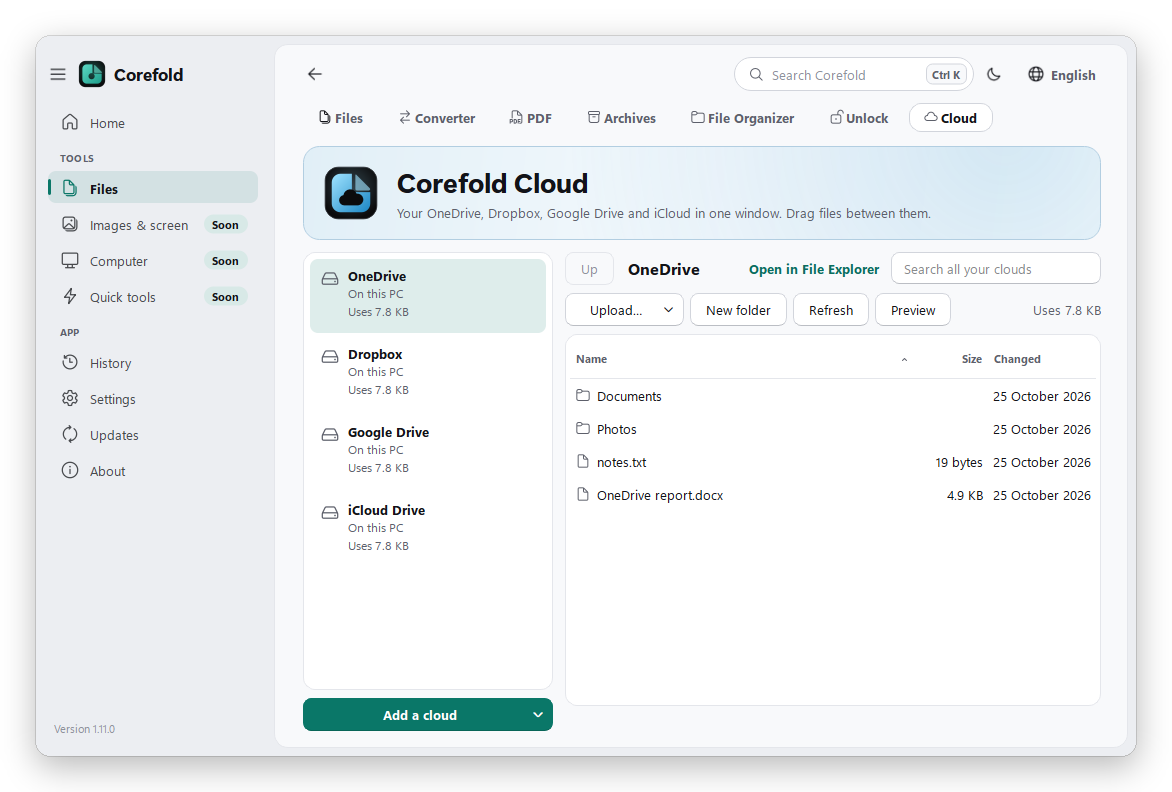
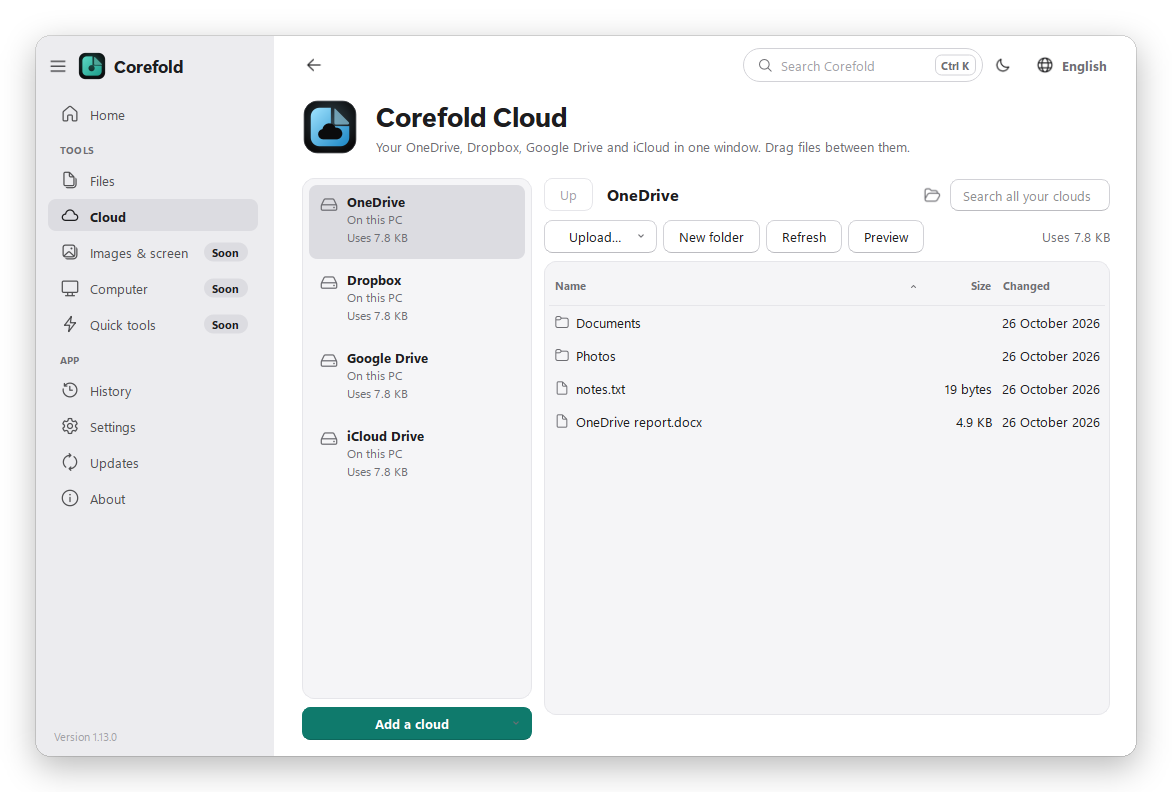
README and website in the quiet look: new pictures, Corefold Files as one tool (#63)
- All 20 README pictures retaken on Windows in the quiet look (version 1.13.0, mouse off the window, grey wheel backdrop).
- README: Corefold Files as one tool (Convert, PDF, Archive, Tidy up, Unlock), Cloud's own row with Google Drive sign-in, the calm look.
- Website: quiet colours, filled cards, ink feature icons.
- Old unused pictures of resting tools removed.

diff --git a/docs/index.html b/docs/index.html
@@ -8,13 +8,13 @@
 <link rel="icon" href="icon.png">
 <style>
   :root {
-    --surface: #f5f7f7; --raised: #ffffff; --sunken: #ebf0ef; --line: #d3dcdb; --ink: #11201e; --muted: #53625f;
-    --core: #0a7768; --core-strong: #08665b; --core-soft: #dcf1ed; --on-core: #ffffff;
+    --surface: #ffffff; --raised: #f5f5f7; --sunken: #ececef; --line: #e6e6ea; --ink: #1d1d1f; --muted: #6e6e73;
+    --core: #0f7a6c; --core-strong: #0c6a5e; --core-soft: #e6f2f0; --on-core: #ffffff;
     --display: "Segoe UI Variable Display", "Segoe UI", system-ui, -apple-system, sans-serif;
   }
   @media (prefers-color-scheme: dark) {
-    :root { --surface: #0d1413; --raised: #15201e; --sunken: #090f0e; --line: #2a3b38; --ink: #e6f0ee; --muted: #9bb0ac;
-            --core: #3cc7b2; --core-strong: #5fd6c4; --core-soft: #113a34; --on-core: #06201c; }
+    :root { --surface: #131315; --raised: #1e1e21; --sunken: #19191b; --line: #26262a; --ink: #f5f5f7; --muted: #a1a1a8;
+            --core: #3fb6a2; --core-strong: #5cc6b4; --core-soft: #1d3632; --on-core: #06110f; }
   }
   * { box-sizing: border-box; }
   body { margin: 0; background: var(--surface); color: var(--ink);
@@ -41,23 +41,23 @@
   section { padding: 44px 0; border-top: 1px solid var(--line); }
   h2 { font-size: 30px; margin: 0 0 22px; letter-spacing: -0.01em; font-weight: 600; }
   .grid { display: grid; grid-template-columns: repeat(auto-fit, minmax(230px, 1fr)); gap: 16px; }
-  .card { background: var(--raised); border: 1px solid var(--line); border-radius: 10px; padding: 20px; }
+  .card { background: var(--raised); border-radius: 10px; padding: 20px; }
   .card h3 { margin: 0 0 6px; font-size: 18px; font-weight: 600; }
   .card p { margin: 0; color: var(--muted); font-size: 15px; }
-  .card .ic { width: 28px; height: 28px; color: var(--core); display: block; margin-bottom: 10px; }
+  .card .ic { width: 28px; height: 28px; color: var(--ink); display: block; margin-bottom: 10px; }
   .steps { counter-reset: s; display: grid; gap: 14px; grid-template-columns: repeat(auto-fit, minmax(250px, 1fr)); }
   .steps .card::before { counter-increment: s; content: counter(s); display: inline-grid; place-items: center;
        width: 30px; height: 30px; border-radius: 50%; background: var(--core); color: var(--on-core); font-weight: 700;
        margin-bottom: 10px; }
   .safe { background: var(--core-soft); border-radius: 14px; padding: 28px; }
   .safe ul { margin: 0; padding-left: 20px; } .safe li { margin: 6px 0; }
-  .shot { background: var(--raised); border: 1px solid var(--line); border-radius: 10px; padding: 14px 16px;
+  .shot { background: var(--raised); border-radius: 10px; padding: 14px 16px;
           max-width: 460px; }
   .shot .title { font-weight: 700; color: #fff; background: #0067b8; margin: -14px -16px 12px; padding: 12px 16px;
                  border-radius: 10px 10px 0 0; }
   .shot u { color: #0067b8; }
   @media (prefers-color-scheme: dark) { .shot u { color: #6cb8ff; } }
-  details { background: var(--raised); border: 1px solid var(--line); border-radius: 10px; padding: 14px 18px; margin: 10px 0; }
+  details { background: var(--raised); border-radius: 10px; padding: 14px 18px; margin: 10px 0; }
   summary { cursor: pointer; font-weight: 600; }
   .doc { max-width: 46em; padding-bottom: 40px; }
   .doc h1 { font-size: clamp(32px, 5vw, 44px); }

diff --git a/docs/privacy.html b/docs/privacy.html
@@ -8,13 +8,13 @@
 <link rel="icon" href="icon.png">
 <style>
   :root {
-    --surface: #f5f7f7; --raised: #ffffff; --sunken: #ebf0ef; --line: #d3dcdb; --ink: #11201e; --muted: #53625f;
-    --core: #0a7768; --core-strong: #08665b; --core-soft: #dcf1ed; --on-core: #ffffff;
+    --surface: #ffffff; --raised: #f5f5f7; --sunken: #ececef; --line: #e6e6ea; --ink: #1d1d1f; --muted: #6e6e73;
+    --core: #0f7a6c; --core-strong: #0c6a5e; --core-soft: #e6f2f0; --on-core: #ffffff;
     --display: "Segoe UI Variable Display", "Segoe UI", system-ui, -apple-system, sans-serif;
   }
   @media (prefers-color-scheme: dark) {
-    :root { --surface: #0d1413; --raised: #15201e; --sunken: #090f0e; --line: #2a3b38; --ink: #e6f0ee; --muted: #9bb0ac;
-            --core: #3cc7b2; --core-strong: #5fd6c4; --core-soft: #113a34; --on-core: #06201c; }
+    :root { --surface: #131315; --raised: #1e1e21; --sunken: #19191b; --line: #26262a; --ink: #f5f5f7; --muted: #a1a1a8;
+            --core: #3fb6a2; --core-strong: #5cc6b4; --core-soft: #1d3632; --on-core: #06110f; }
   }
   * { box-sizing: border-box; }
   body { margin: 0; background: var(--surface); color: var(--ink);

diff --git a/scripts/readme_shots.py b/scripts/readme_shots.py
@@ -33,7 +33,7 @@ sys.path.insert(0, str(ROOT))
 import corefold  # noqa: E402
 
 if corefold.__version__ == "dev":  # (the sidebar shows it: "Version dev" looks unfinished in a picture)
-    corefold.__version__ = os.environ.get("COREFOLD_SHOW_VERSION", "1.11.0")
+    corefold.__version__ = os.environ.get("COREFOLD_SHOW_VERSION", "1.13.0")
 
 from PIL import Image, ImageDraw, ImageFilter  # noqa: E402
 
@@ -135,7 +135,7 @@ st.CONFIG_DIR.mkdir(parents=True, exist_ok=True)
     "utf-8")
 
 from PySide6.QtCore import QPointF, QRect, Qt  # noqa: E402
-from PySide6.QtGui import QColor, QIcon, QLinearGradient, QPainter, QPixmap, QRadialGradient  # noqa: E402
+from PySide6.QtGui import QColor, QCursor, QIcon, QLinearGradient, QPainter, QPixmap, QRadialGradient  # noqa: E402
 from PySide6.QtWidgets import QApplication  # noqa: E402
 
 from corefold import i18n  # noqa: E402
@@ -198,6 +198,7 @@ def framed(src: Path, dest: Path, radius: int = 14, margin: int = 36):
 
 
 def grab(widget, what: str, wait: float = 0.6):
+    QCursor.setPos(widget.screen().geometry().bottomRight())  # (the mouse would leave a card looking hovered)
     settle(wait)
     raw = RAW / f"{what}.png"
     widget.grab().save(str(raw))
@@ -208,18 +209,16 @@ def grab(widget, what: str, wait: float = 0.6):
 
 def paint_backdrop(p: QPainter, r: QRect):
     g = QLinearGradient(QPointF(r.topLeft()), QPointF(r.bottomRight()))
-    if DARK:
-        g.setColorAt(0, QColor("#0d1b1e"))
-        g.setColorAt(0.55, QColor("#12302f"))
-        g.setColorAt(1, QColor("#1b2140"))
+    if DARK:  # (the quiet look: soft greys, the accent only in the wheel itself)
+        g.setColorAt(0, QColor("#1e1e21"))
+        g.setColorAt(1, QColor("#131315"))
     else:
-        g.setColorAt(0, QColor("#dff3ef"))
-        g.setColorAt(0.55, QColor("#cfe6f3"))
-        g.setColorAt(1, QColor("#e6defa"))
+        g.setColorAt(0, QColor("#f5f5f7"))
+        g.setColorAt(1, QColor("#e4e4e9"))
     p.fillRect(r, g)
-    glow = QRadialGradient(QPointF(r.width() * 0.25, r.height() * 0.2), r.width() * 0.6)
-    glow.setColorAt(0, QColor(60, 199, 178, 70 if DARK else 90))
-    glow.setColorAt(1, QColor(60, 199, 178, 0))
+    glow = QRadialGradient(QPointF(r.width() * 0.5, r.height() * 0.5), r.width() * 0.5)
+    glow.setColorAt(0, QColor(63, 182, 162, 28 if DARK else 22))
+    glow.setColorAt(1, QColor(63, 182, 162, 0))
     p.fillRect(r, glow)
 
 

diff --git a/README.md b/README.md
@@ -11,10 +11,10 @@
 </p>
 
 <p align="center">
-  <a href="https://github.com/SayedLabs/corefold/releases/latest"><img src="https://img.shields.io/github/v/release/SayedLabs/corefold?label=download&color=0a7768" alt="Download the latest version"></a>
-  <a href="https://github.com/SayedLabs/corefold/releases"><img src="https://img.shields.io/github/downloads/SayedLabs/corefold/total?color=0a7768" alt="Downloads"></a>
-  <img src="https://img.shields.io/badge/Windows-10%20%7C%2011-0a7768" alt="Windows 10 and 11">
-  <img src="https://img.shields.io/badge/languages-5-0a7768" alt="5 languages">
+  <a href="https://github.com/SayedLabs/corefold/releases/latest"><img src="https://img.shields.io/github/v/release/SayedLabs/corefold?label=download&color=0f7a6c" alt="Download the latest version"></a>
+  <a href="https://github.com/SayedLabs/corefold/releases"><img src="https://img.shields.io/github/downloads/SayedLabs/corefold/total?color=0f7a6c" alt="Downloads"></a>
+  <img src="https://img.shields.io/badge/Windows-10%20%7C%2011-0f7a6c" alt="Windows 10 and 11">
+  <img src="https://img.shields.io/badge/languages-5-0f7a6c" alt="5 languages">
 </p>
 
 <p align="center">
@@ -25,18 +25,20 @@
 </p>
 
 ## What's inside
-This version puts everything into the **Files** tools, so each of them is as good as it can be.
+This version puts everything into **Corefold Files**: one tool with one heading and a bar of what you
+can use it for, so moving between its uses feels like one app, not several. Drop any file on its start
+page to see everything you can do with it.
 
 | | |
 |---|---|
-| **Converter** | Hold Shift while dragging a file, and a wheel of formats appears at your cursor. Drop it on one and it's converted: pictures, videos, music, PDFs and Office files. |
+| **Convert** | Hold Shift while dragging a file, and a wheel of formats appears at your cursor. Drop it on one and it's converted: pictures, videos, music, PDFs and Office files. |
 | **PDF** | Change what's in a PDF, merge, split and arrange PDFs by dragging page pictures, shrink them, turn pictures into a PDF, and lock them with a password. |
 | **Archive** | Opens ZIP, RAR, 7z, ISO and more with a double-click. Drag files out, change a file inside and save it back, rescue damaged archives. |
-| **File Organizer** | Sorts a messy Downloads or Desktop into clear folders with one click. See where every file will go first, and undo it all. |
+| **Tidy up** | Sorts a messy Downloads or Desktop into clear folders with one click. See where every file will go first, and undo it all. |
 | **Unlock** | Finds out which program is holding a file you can't delete or move, and asks it to let go. |
-| **Cloud** | Your OneDrive, Dropbox, Google Drive and iCloud in one window, found by themselves. Search them all and drag files and folders from one to another. |
+| **Cloud** | Has its own place in the sidebar: your OneDrive, Dropbox, Google Drive and iCloud in one window, found by themselves. Sign in to Google Drive right in Corefold, search every cloud at once and drag files from one to another. |
 
-Switch on only the tools you want: a tool that's switched off isn't loaded at all, so Corefold stays light.
+Switch off the uses you don't need (the ⚙ on the start page): a use that's switched off isn't loaded at all, so Corefold stays light.
 
 <table>
   <tr>
@@ -52,7 +54,7 @@ Switch on only the tools you want: a tool that's switched off isn't loaded at al
   <tr>
     <td width="50%"><picture>
   <source media="(prefers-color-scheme: dark)" srcset="docs/screenshots/organizer-en-dark.png">
-  <img src="docs/screenshots/organizer-en-light.png" alt="File Organizer: where every file in Downloads will go">
+  <img src="docs/screenshots/organizer-en-light.png" alt="Tidy up: where every file in Downloads will go">
 </picture></td>
     <td width="50%"><picture>
   <source media="(prefers-color-scheme: dark)" srcset="docs/screenshots/cloud-en-dark.png">
@@ -62,7 +64,7 @@ Switch on only the tools you want: a tool that's switched off isn't loaded at al
 </table>
 
 ### Coming back soon
-The other sections are resting for now while the Files tools get our full attention. Nothing of them
+The other sections are resting for now while Corefold Files gets our full attention. Nothing of them
 runs, and whatever they kept for you (settings, history, backups) waits untouched until they're back.
 
 - **Images & screen:** Capture, Viewer, Player, Colors
@@ -130,15 +132,17 @@ what's copied* in the tray menu) to convert a copied picture or copied files.
 </picture></td>
     <td width="50%"><picture>
   <source media="(prefers-color-scheme: dark)" srcset="docs/screenshots/store-en-dark.png">
-  <img src="docs/screenshots/store-en-light.png" alt="The Files section: its tools, each with a switch">
+  <img src="docs/screenshots/store-en-light.png" alt="Corefold Files: drop a file, or pick what to use it for">
 </picture></td>
   </tr>
 </table>
 
 Press **Ctrl + K** to find any tool, page or setting by typing. Drag the sidebar to put your tools in
 your order, or shrink it to icons. Dark or light (or follow Windows), seven accent colours or your
-own, and your own text size. Every screen is built on **Atomic**, our design system, so all of it
-looks and moves the same way.
+own, and your own text size. The look is calm: soft greys, a flat window, and the accent colour only
+where it means something (the main button, switches, what you're dragging). Questions, menus and
+What's new open inside the window, never as extra windows. Every screen is built on **Atomic**, our
+design system, so all of it looks and moves the same way.
 
 ## In your language
 <table>
@@ -158,7 +162,7 @@ Arabic the whole app is right-to-left.
 - **Light on your PC.** Corefold waits in the tray using almost no memory or power. Conversions run at
   low priority and one at a time (both can be changed under *General → Keep my PC fast*), and memory it
   doesn't need is handed back to Windows when it's idle.
-- **Careful with your files.** Originals are never changed, and the File Organizer can undo a whole sort.
+- **Careful with your files.** Originals are never changed, and Tidy up can undo a whole sort.
 
 Read the full [privacy policy](PRIVACY.md).
 
